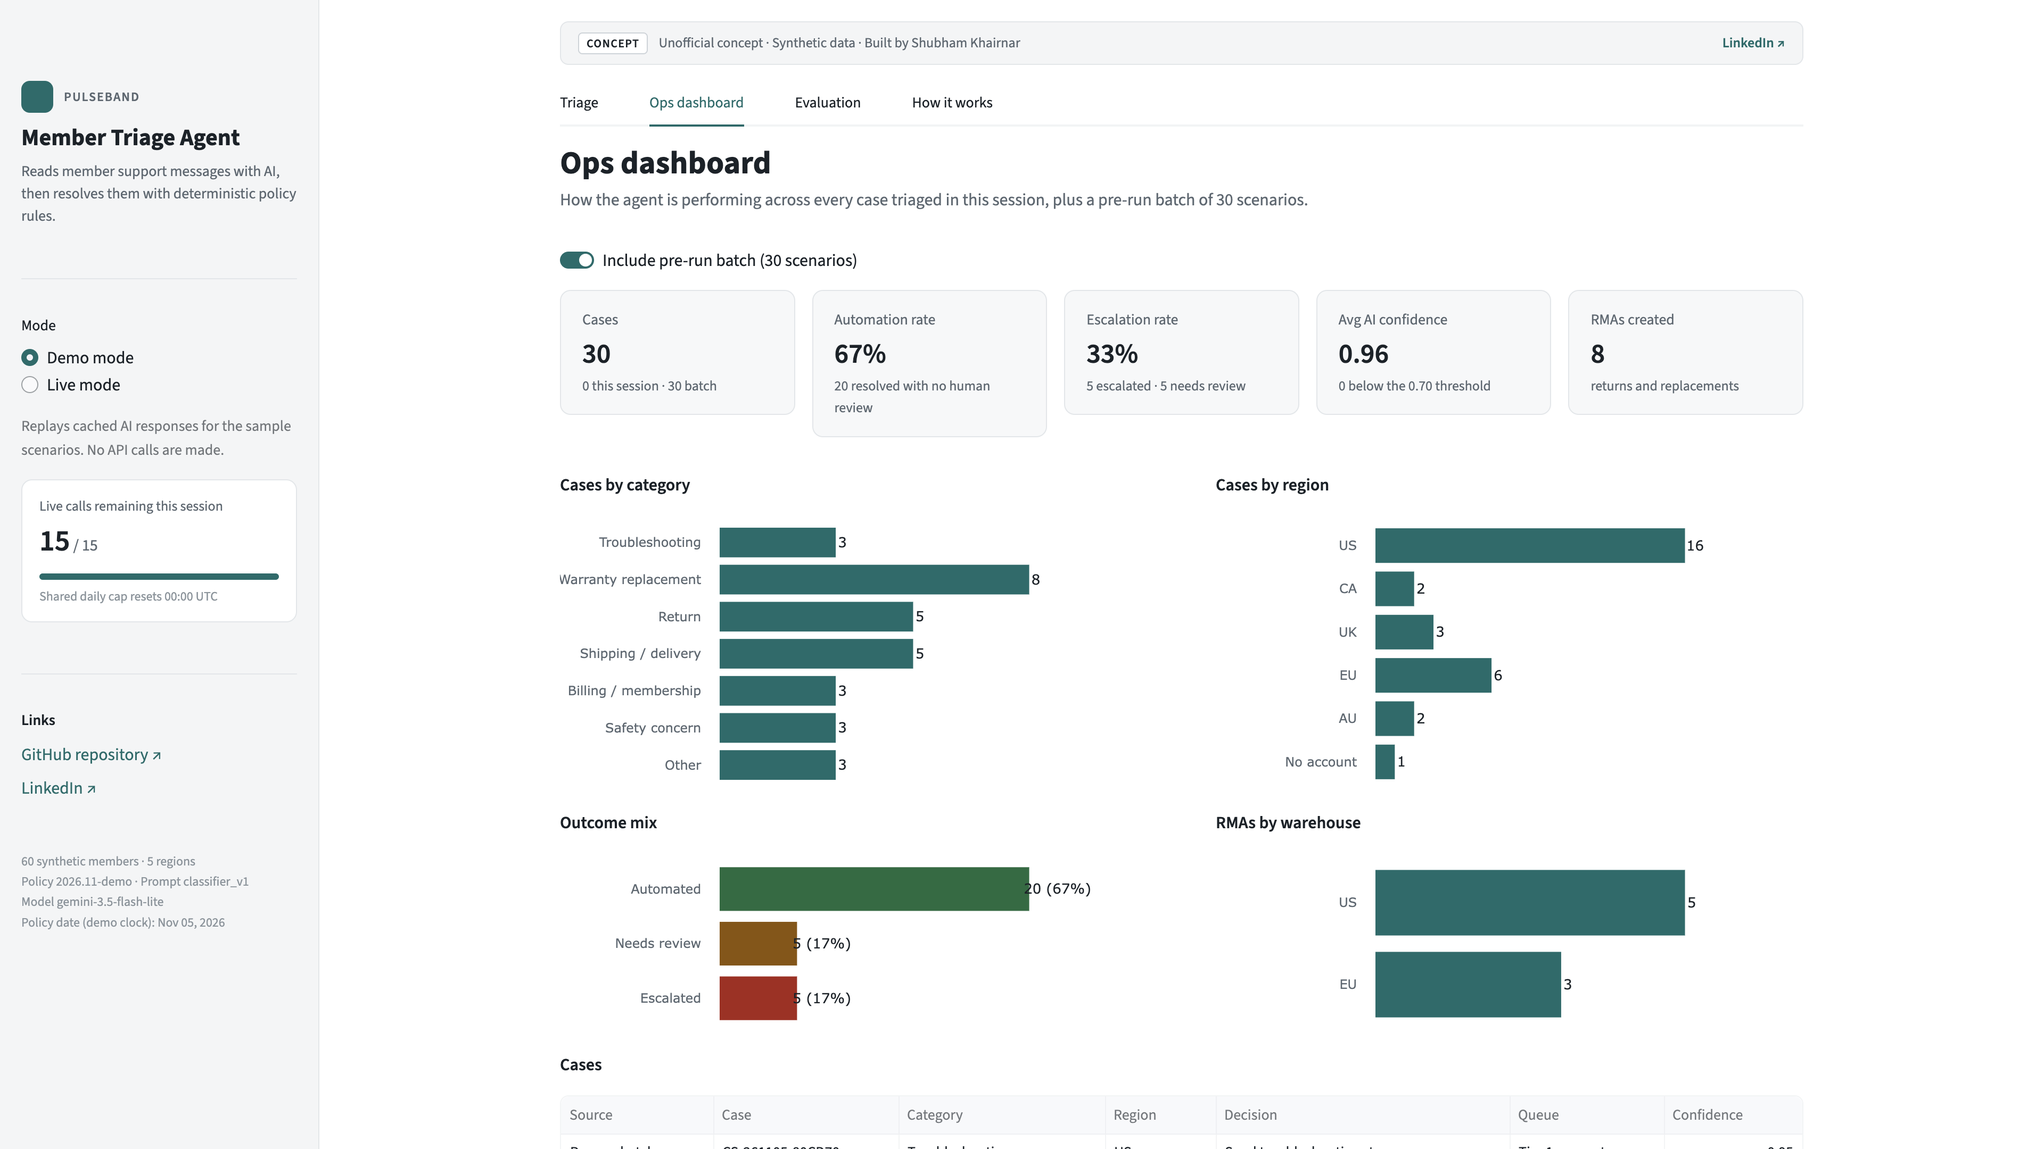
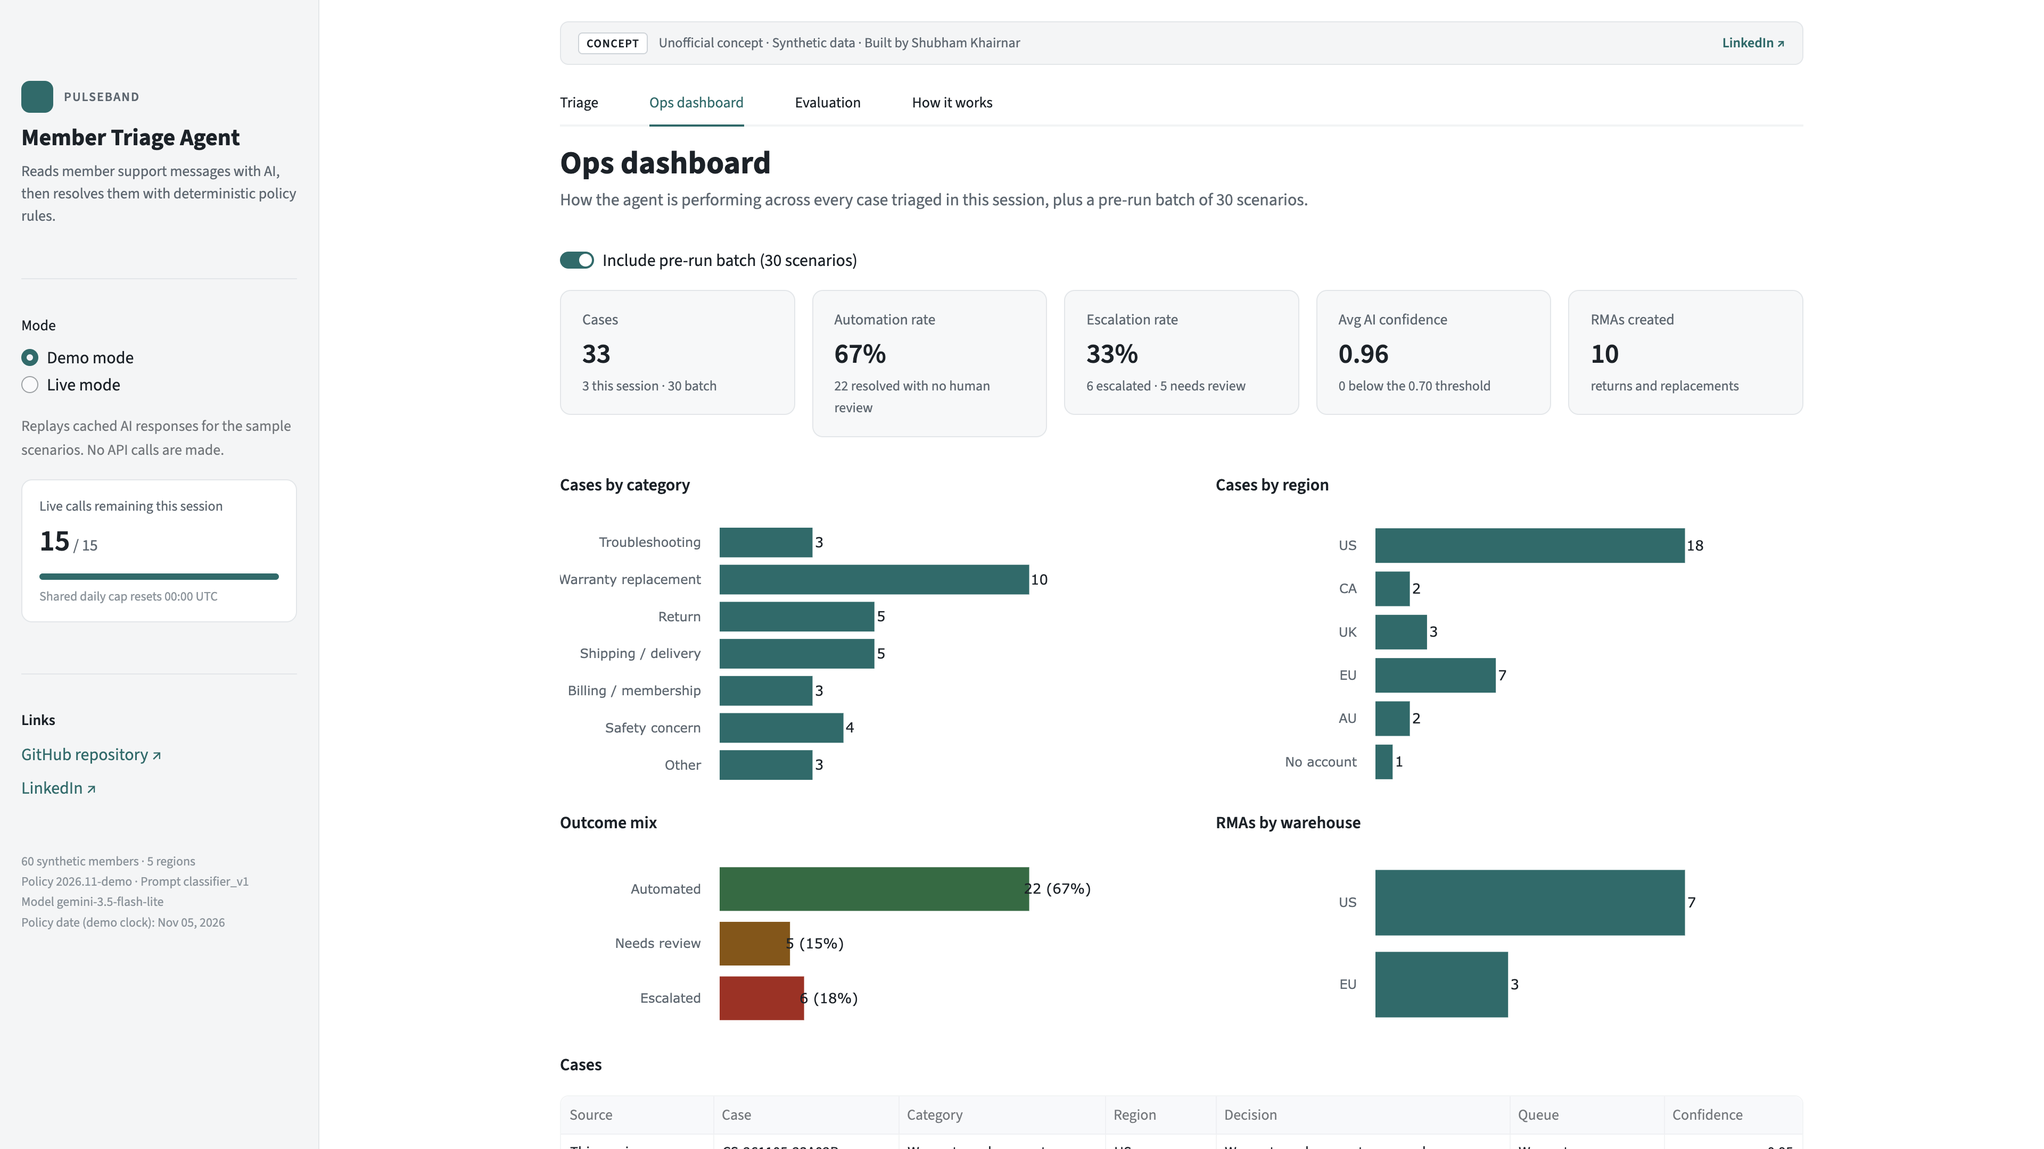
Polish UI for deploy: match persona labels to samples, Demo default, How-it-works, mobile layout

diff --git a/ui/how_tab.py b/ui/how_tab.py
@@ -2,6 +2,8 @@
 
 from __future__ import annotations
 
+from collections import defaultdict
+
 from triage.config import get_rules
 from ui.components import esc, html, page_heading
 
@@ -25,14 +27,25 @@ STYLES = {
     "rules": ("#fff", "1.5px solid #0F6B6B", "#1B2228", "#fff"),
 }
 
+WHY = [
+    ("Lower handling cost", "Automation rate",
+     "Two-thirds of these scenarios resolve with no agent. Ops can raise or lower that by editing "
+     "thresholds in rules.yaml, not by retraining a model."),
+    ("Better member experience", "Fast, consistent answers",
+     "Same facts, same decision, every time — including the last day of a return window and the "
+     "day after. Members are not waiting on a queue for a policy lookup."),
+    ("Clean data", "CRM case and ERP RMA always match",
+     "The case and the return order share an ID and are created together. A retry cannot mint a "
+     "duplicate replacement, and the two systems cannot drift."),
+]
+
 
 def _flow_html() -> str:
     parts = []
     for i, (n, title, tag, desc, example, kind) in enumerate(FLOW):
         bg, border, tag_bg, tag_fg = STYLES[kind]
         parts.append(
-            f'<div style="flex:1;min-width:0;background:{bg};border:{border};border-radius:10px;'
-            'padding:18px 18px 20px;display:flex;flex-direction:column;gap:10px">'
+            f'<div class="pb-flow-step" style="background:{bg};border:{border}">'
             f'<div class="pb-mono pb-faint" style="font-size:13px">{n}</div>'
             f'<div style="font-size:18px;font-weight:600;line-height:1.25">{esc(title)}</div>'
             f'<div><span class="pb-pill" style="font-size:12px;background:{tag_bg};color:{tag_fg}">'
@@ -42,22 +55,50 @@ def _flow_html() -> str:
             f'border:1px solid #E2E6E9;border-radius:6px;color:#3E4850">{esc(example)}</div></div>'
         )
         if i < len(FLOW) - 1:
-            parts.append('<div style="display:flex;align-items:center;color:#8A949C;'
-                         'font-size:20px">→</div>')
-    return f'<div style="display:flex;gap:8px;align-items:stretch">{"".join(parts)}</div>'
+            parts.append('<div class="pb-flow-arrow" aria-hidden="true">→</div>')
+    return f'<div class="pb-flow">{"".join(parts)}</div>'
+
+
+def _why_html() -> str:
+    cards = "".join(
+        f'<div class="pb-card pb-why-card"><div class="pb-label">{esc(metric)}</div>'
+        f'<div class="pb-h-sm" style="margin:4px 0 8px">{esc(title)}</div>'
+        f'<div style="font-size:14px;line-height:1.5;color:#3E4850">{esc(body)}</div></div>'
+        for title, metric, body in WHY
+    )
+    return (
+        '<div style="margin-top:28px"><div class="pb-h" style="margin-bottom:12px">Why it matters</div>'
+        f'<div class="pb-why">{cards}</div></div>'
+    )
+
+
+def warranty_period_label(rules=None) -> str:
+    """'Within 12 months of delivery; 24 months (EU and UK)'."""
+    rules = rules or get_rules()
+    w = rules.warranty
+    grouped: dict[int, list[str]] = defaultdict(list)
+    for region, months in w.months_by_region.items():
+        grouped[months].append(region)
+    extras = []
+    for months, regions in grouped.items():
+        if months == w.default_months:
+            continue
+        names = " and ".join(regions) if len(regions) <= 2 else ", ".join(regions)
+        extras.append(f"{months} months ({names})")
+    suffix = f"; {'; '.join(extras)}" if extras else ""
+    return f"Within {w.default_months} months of delivery{suffix}"
 
 
 def _policy_rows() -> list[tuple[str, str, str]]:
     r = get_rules()
     w, lim, e = r.warranty, r.warranty.replacement_limit, r.escalation
-    regional = ", ".join(f"{m} months ({reg})" for reg, m in w.months_by_region.items())
     return [
         ("Safety screen", f"AI says safety_concern, or one of {len(e.safety.keywords)} safety "
          "keywords appears", "Urgent → Trust & Safety; skip all eligibility rules"),
         ("Account lookup", "Member account linked", "Otherwise ask for account email or order number"),
         ("Troubleshooting first", f"{' / '.join(r.troubleshooting_first.sub_categories)} issue, "
          "member hasn't tried the standard steps", "Send guided troubleshooting before any RMA"),
-        ("Warranty period", f"Within {w.default_months} months of delivery; {regional}",
+        ("Warranty period", warranty_period_label(r),
          "Otherwise not eligible (offer upgrade options)"),
         ("Membership active", f"status == {w.required_membership_status}",
          "Past due → billing first; cancelled → not eligible"),
@@ -76,13 +117,22 @@ def _policy_rows() -> list[tuple[str, str, str]]:
     ]
 
 
+def _list_html(items: list[str], kind: str) -> str:
+    icon = "✓" if kind == "allow" else "✕"
+    return "".join(
+        f'<div class="pb-bound"><span class="pb-bound-icon pb-bound-{kind}">{icon}</span>'
+        f'<div>{esc(item)}</div></div>'
+        for item in items
+    )
+
+
 def render() -> None:
     rules = get_rules()
     page_heading("How it works", "One request, five steps. The AI never decides an outcome — "
                  "it only produces structured facts for the rules.")
     html(f'<div style="margin-top:24px">{_flow_html()}</div>')
-    html('<div style="text-align:center;font-size:30px;font-weight:600;padding:28px 0;'
-         'color:#0A3F3F">AI for understanding, rules for decisions.</div>')
+    html('<div class="pb-principle">AI for understanding, rules for decisions.</div>')
+    html(_why_html())
 
     allowed = ["Classify category, sentiment and urgency",
                "Extract facts: issue, timing, steps already tried",
@@ -92,29 +142,27 @@ def render() -> None:
              "Create an RMA or change an order",
              "Write the member reply (templates are filled from the rules' facts)"]
     html(
-        '<div style="display:grid;grid-template-columns:1fr 1fr;gap:20px">'
+        '<div class="pb-split" style="margin-top:24px">'
         '<div class="pb-card"><div class="pb-h-sm" style="margin-bottom:10px">The AI is allowed to</div>'
-        + "".join(f'<div style="font-size:15px;line-height:1.5;margin:6px 0">✓ {esc(a)}</div>'
-                  for a in allowed)
+        + _list_html(allowed, "allow")
         + '</div><div class="pb-card"><div class="pb-h-sm" style="margin-bottom:10px">'
           'The AI is never allowed to</div>'
-        + "".join(f'<div style="font-size:15px;line-height:1.5;margin:6px 0">✗ {esc(n)}</div>'
-                  for n in never)
+        + _list_html(never, "deny")
         + '</div></div>'
     )
 
-    cols = "grid-template-columns:1.2fr 2.2fr 2fr"
     rows = "".join(
-        f'<div class="pb-tr" style="{cols}"><div style="font-weight:500">{esc(name)}</div>'
-        f'<div class="pb-mono" style="font-size:13px;color:#3E4850;padding-top:2px">{esc(cond)}</div>'
-        f'<div style="color:#3E4850">{esc(effect)}</div></div>'
+        f'<div class="pb-tr pb-policy-row">'
+        f'<div class="pb-policy-rule">{esc(name)}</div>'
+        f'<div class="pb-policy-if" data-label="If">{esc(cond)}</div>'
+        f'<div class="pb-policy-then" data-label="Then">{esc(effect)}</div></div>'
         for name, cond, effect in _policy_rows()
     )
     html(
-        '<div style="display:flex;justify-content:space-between;align-items:baseline;margin:32px 0 12px">'
+        '<div class="pb-policy-head">'
         f'<div class="pb-h">Policy rules · {esc(rules.policy.version)}</div>'
         '<div class="pb-muted" style="font-size:13px">Read live from rules.yaml · evaluated in order '
         '· safety overrides all</div></div>'
-        f'<div class="pb-table"><div class="pb-tr pb-th" style="{cols}"><div>Rule</div>'
+        '<div class="pb-table"><div class="pb-tr pb-th pb-policy-row"><div>Rule</div>'
         f'<div>Condition</div><div>Effect</div></div>{rows}</div>'
     )

diff --git a/ui/styles.py b/ui/styles.py
@@ -99,12 +99,50 @@ h1, h2, h3 {{ color: {INK}; }}
 .pb-th {{ background:#F3F5F6; font-size:13px; color:{MUTED}; font-weight:600; border-top:none; }}
 
 .pb-side-brand {{ display:flex; align-items:center; gap:10px; }}
-.pb-side-logo {{ width:30px; height:30px; border-radius:8px; background:{TEAL}; }}
+.pb-side-logo {{ width:30px; height:30px; border-radius:8px; background:{TEAL}; display:flex;
+  align-items:center; justify-content:center; flex:none; }}
+.pb-side-logo svg {{ display:block; }}
 .pb-side-kicker {{ font-size:12px; font-weight:600; letter-spacing:.08em; text-transform:uppercase;
   color:{MUTED}; }}
 .pb-meter {{ background:#fff; border:1px solid {LINE}; border-radius:10px; padding:14px 16px; }}
 .pb-meter-bar {{ height:6px; border-radius:3px; background:#E6EAEC; overflow:hidden; margin:8px 0 6px; }}
 .pb-meter-bar > div {{ height:100%; background:{TEAL}; }}
+
+.pb-flow {{ display:flex; gap:8px; align-items:stretch; }}
+.pb-flow-step {{ flex:1; min-width:0; border-radius:10px; padding:18px 18px 20px;
+  display:flex; flex-direction:column; gap:10px; }}
+.pb-flow-arrow {{ display:flex; align-items:center; color:{FAINT}; font-size:20px; flex:none; }}
+.pb-principle {{ text-align:center; font-size:30px; font-weight:600; padding:28px 0; color:#0A3F3F; }}
+.pb-why {{ display:grid; grid-template-columns:1fr 1fr 1fr; gap:16px; }}
+.pb-split {{ display:grid; grid-template-columns:1fr 1fr; gap:20px; }}
+.pb-bound {{ display:flex; align-items:flex-start; gap:10px; font-size:15px; line-height:1.5; margin:8px 0; }}
+.pb-bound-icon {{ width:22px; height:22px; border-radius:11px; display:inline-flex; align-items:center;
+  justify-content:center; font-size:12px; font-weight:700; flex:none; margin-top:1px; }}
+.pb-bound-allow {{ background:#E5F3EA; color:#1D6B3F; }}
+.pb-bound-deny {{ background:#F6EDEC; color:#C45C52; }}
+.pb-policy-head {{ display:flex; justify-content:space-between; align-items:baseline; gap:12px;
+  margin:32px 0 12px; }}
+.pb-policy-row {{ grid-template-columns:1.2fr 2.2fr 2fr; }}
+.pb-policy-if, .pb-policy-then {{ }}
+
+@media (max-width: 900px) {{
+  section[data-testid="stSidebar"] {{ width: unset !important; min-width: unset !important; }}
+  .block-container {{ padding: 1rem 1.1rem 2.5rem; }}
+  .pb-title {{ font-size:24px; }}
+  .pb-principle {{ font-size:22px; padding:20px 0; }}
+  .pb-flow {{ flex-direction:column; }}
+  .pb-flow-arrow {{ transform:rotate(90deg); align-self:center; height:16px; }}
+  .pb-why, .pb-split {{ grid-template-columns:1fr; }}
+  .pb-banner {{ flex-direction:column; align-items:flex-start; }}
+  .pb-kv {{ grid-template-columns:1fr; gap:2px; padding:8px 0; }}
+  .pb-policy-head {{ flex-direction:column; align-items:flex-start; }}
+  .pb-th.pb-policy-row {{ display:none; }}
+  .pb-policy-row {{ grid-template-columns:1fr; gap:4px; padding:14px 16px; }}
+  .pb-policy-if::before, .pb-policy-then::before {{
+    content: attr(data-label) " · "; font-weight:600; color:{MUTED}; font-family: inherit; }}
+  .pb-rule {{ grid-template-columns:28px minmax(0,1fr); }}
+  .pb-rule-code {{ grid-column:2; padding-top:0; }}
+}}
 </style>
 """
 

diff --git a/tests/test_app.py b/tests/test_app.py
@@ -5,6 +5,9 @@ from pathlib import Path
 import pytest
 from streamlit.testing.v1 import AppTest
 
+import pandas as pd
+
+from triage.config import DATA_DIR
 from triage.demo import cached_classification, load_scenarios
 from triage.pipeline import triage_with_classification
 
@@ -26,6 +29,14 @@ def test_app_loads_in_demo_mode_without_errors(app):
     assert not app.error
 
 
+def test_app_defaults_to_demo_even_when_an_api_key_is_set(monkeypatch):
+    monkeypatch.setenv("GEMINI_API_KEY", "dummy-key-for-tests")
+    at = AppTest.from_file(APP, default_timeout=60)
+    at.run()
+    assert not at.exception
+    assert at.session_state["mode"] == "demo"
+
+
 @pytest.mark.parametrize("scenario", load_scenarios(), ids=lambda s: s.id)
 def test_results_view_renders_for_every_demo_scenario(monkeypatch, scenario):
     # AppTest can't click while st.pills is on screen, so start on the results view.
@@ -38,3 +49,42 @@ def test_results_view_renders_for_every_demo_scenario(monkeypatch, scenario):
     at.run()
     assert not at.exception and not at.error
     assert any(b.label == "New request" for b in at.button)
+
+
+SAMPLE_OUTCOMES = {
+    "wont_charge": "approve_warranty_replacement",
+    "return_germany": "approve_return",
+    "charged_twice": "route_to_billing",
+    "package_missing": "approve_lost_package_replacement",
+    "skin_irritation": "escalate_safety",
+    "angry_repeat": "manual_review_replacement_limit",
+    "return_day_31": "deny_return_window_closed",
+    "clasp_past_due": "hold_resolve_billing_first",
+    "uk_sync": "approve_warranty_replacement",
+    "vague": "escalate_to_human",
+}
+
+SAMPLE_NOTE_PHRASES = {
+    "wont_charge": "warranty replacement approved",
+    "return_germany": "remorse return in window",
+    "charged_twice": "billing queue",
+    "package_missing": "lost-package replacement",
+    "skin_irritation": "urgent human review",
+    "angry_repeat": "manual review",
+    "return_day_31": "return window just closed",
+    "clasp_past_due": "resolve billing before rma",
+    "uk_sync": "warranty replacement approved",
+    "vague": "human review",
+}
+
+
+def test_sample_scenarios_match_persona_notes_and_cached_outcomes():
+    notes = dict(pd.read_csv(DATA_DIR / "personas.csv").set_index("member_id").scenario_note)
+    for scenario in load_scenarios():
+        result = triage_with_classification(
+            scenario.message, scenario.member_id,
+            cached_classification(scenario.message), mode="demo",
+        )
+        assert result.decision.decision == SAMPLE_OUTCOMES[scenario.id], scenario.id
+        assert SAMPLE_NOTE_PHRASES[scenario.id] in notes[scenario.member_id].lower(), scenario.id
+        assert "troubleshooting first" not in notes["M0001"].lower()

diff --git a/scripts/generate_data.py b/scripts/generate_data.py
@@ -108,7 +108,7 @@ class Persona:
 
 PERSONAS: list[Persona] = [
     Persona("Maya Patel", "United States", "US", "active", "annual",
-            "Charging issue, 5 months in warranty → troubleshooting first",
+            "Charging issue, already tried cable + reset → warranty replacement approved",
             delivered_ago=relativedelta(months=5)),
     Persona("Lukas Becker", "Germany", "EU", "active", "monthly",
             "Delivered 12 days ago → remorse return in window",
@@ -120,10 +120,10 @@ PERSONAS: list[Persona] = [
             "Delivered 31 days ago → return window just closed",
             delivered_ago=relativedelta(days=31), sku="PB4-S-NAVY"),
     Persona("Oliver Hughes", "United Kingdom", "UK", "active", "annual",
-            "Delivered 18 months ago → covered only by 24-month UK warranty",
+            "Sync issue, already re-paired, 18 months in → UK 24-month warranty replacement approved",
             delivered_ago=relativedelta(months=18), sku="PB4-L-ONYX"),
     Persona("Ethan Brooks", "United States", "US", "active", "monthly",
-            "Delivered 13 months ago → outside 12-month US warranty",
+            "Vague message → human review (account is also outside 12-month US warranty)",
             delivered_ago=relativedelta(months=13)),
     Persona("Sofia Martinez", "United States", "US", "past_due", "monthly",
             "Past-due membership, 4 months in → resolve billing before RMA",
@@ -139,7 +139,7 @@ PERSONAS: list[Persona] = [
             "In transit 6 business days → too early to replace",
             ordered_business_days_ago=6, sku="PB4-L-ARCTIC"),
     Persona("Daniel Kim", "United States", "US", "active", "annual",
-            "Annual member, billing dispute → billing queue (escalate if angry)",
+            "Duplicate membership charge → billing queue",
             delivered_ago=relativedelta(months=8), sku="PB4-L-NAVY"),
     Persona("Camille Laurent", "France", "EU", "active", "monthly",
             "3 prior cases in last 90 days → possible-fraud escalation",

diff --git a/ui/sidebar.py b/ui/sidebar.py
@@ -17,7 +17,11 @@ def render() -> None:
     rules = get_rules()
     with st.sidebar:
         html(
-            '<div class="pb-side-brand"><div class="pb-side-logo"></div>'
+            '<div class="pb-side-brand"><div class="pb-side-logo" aria-hidden="true">'
+            '<svg width="30" height="30" viewBox="0 0 30 30" fill="none">'
+            '<path d="M3.5 16.5 H8 L10.5 8 L14.5 22.5 L17.5 11 L20 16.5 H26.5" '
+            'stroke="#fff" stroke-width="2.1" stroke-linecap="round" stroke-linejoin="round"/>'
+            '</svg></div>'
             '<div class="pb-side-kicker">PulseBand</div></div>'
             '<div style="font-size:22px;font-weight:700;line-height:1.2;margin-top:10px">'
             'Member Triage Agent</div>'

diff --git a/tests/test_how.py b/tests/test_how.py
@@ -1,0 +1,18 @@
+from ui.how_tab import WHY, warranty_period_label, _policy_rows
+
+
+def test_warranty_period_groups_eu_and_uk():
+    label = warranty_period_label()
+    assert "24 months (EU and UK)" in label
+    assert "24 months (EU)," not in label
+    assert "24 months (EU), 24 months (UK)" not in label
+
+
+def test_policy_table_uses_grouped_warranty():
+    row = next(r for r in _policy_rows() if r[0] == "Warranty period")
+    assert row[1] == warranty_period_label()
+
+
+def test_why_it_matters_covers_cost_experience_and_data():
+    titles = [t for t, _, _ in WHY]
+    assert titles == ["Lower handling cost", "Better member experience", "Clean data"]

diff --git a/ui/settings.py b/ui/settings.py
@@ -1,7 +1,7 @@
 """App-level settings (not business policy — that lives in rules.yaml)."""
 
 AUTHOR = "Shubham Khairnar"
-LINKEDIN_URL = "https://www.linkedin.com/in/your-profile"  # paste your LinkedIn URL before sharing
+LINKEDIN_URL = "https://www.linkedin.com/in/shubham-khairnar"
 GITHUB_URL = "https://github.com/Khairnar-sh21/Member-returns-warranty-AI-triage-agent"
 CASE_STUDY_URL = ""  # optional write-up link; hidden when empty
 

diff --git a/app.py b/app.py
@@ -22,7 +22,7 @@ st.set_page_config(
     page_title="PulseBand Triage Agent · Unofficial concept",
     page_icon="🟢",
     layout="wide",
-    initial_sidebar_state="expanded",
+    initial_sidebar_state="auto",
 )
 
 

diff --git a/DEPLOY.md b/DEPLOY.md
@@ -9,17 +9,7 @@ This is a click-by-click guide for you. The public link runs in **Demo mode** wi
 ## Before you click Deploy
 
 1. The GitHub repo must be **public**: [Khairnar-sh21/Member-returns-warranty-AI-triage-agent](https://github.com/Khairnar-sh21/Member-returns-warranty-AI-triage-agent). Streamlit Community Cloud reads it from there.
-2. Replace the LinkedIn placeholder in two places (search for `your-profile`):
-   - `ui/settings.py` → `LINKEDIN_URL`
-   - `README.md` → the LinkedIn link at the top
-3. Commit and push those two edits:
-
-```bash
-cd "/Users/shubhamkhairnar/Desktop/Claude Projects/Whoop"
-git add ui/settings.py README.md
-git commit -m "Add LinkedIn URL"
-git push
-```
+2. LinkedIn already points at [linkedin.com/in/shubham-khairnar](https://www.linkedin.com/in/shubham-khairnar) in `ui/settings.py` and `README.md`. Change those two if your public URL is different.
 
 ---
 

diff --git a/README.md b/README.md
@@ -3,7 +3,7 @@
 > **Unofficial concept · 100% synthetic data · built by Shubham Khairnar.**
 > "PulseBand" is a fictional wearable-membership company. No real company, customer, or policy data is used.
 
-**Live demo:** [add your Streamlit link here](#) · **2-minute walkthrough:** [add your Loom link here](#) · **LinkedIn:** [add your profile here](#)
+**Live demo:** [add your Streamlit link here](#) · **2-minute walkthrough:** [add your Loom link here](#) · **LinkedIn:** [Shubham Khairnar](https://www.linkedin.com/in/shubham-khairnar)
 
 The demo opens in **Demo mode**: it replays saved AI results for 10 sample scenarios, so it always works and costs nothing. Switch to **Live mode** in the sidebar to triage your own message (limited to 15 per visit).
 
